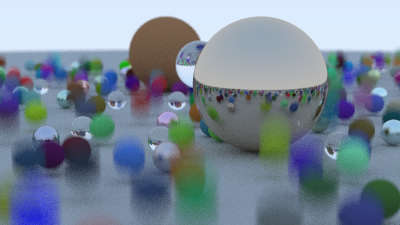
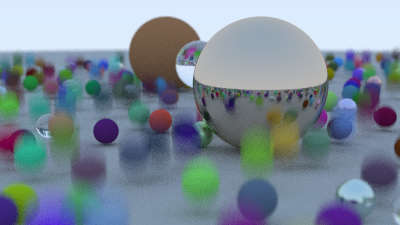
Optimize by choosing longest axis

diff --git a/RayTracer/src/utils.rs b/RayTracer/src/utils.rs
@@ -3,7 +3,8 @@ use rand::{
     distributions::{Open01, Uniform},
     thread_rng, Rng,
 };
-use std::{iter::Sum, ops::{Add, AddAssign}};
+use std::{iter::Sum, mem::swap, ops::{Add, AddAssign}};
+use std::cmp::Ordering;
 
 pub fn is_ci() -> bool {
     option_env!("CI").unwrap_or_default() == "true"
@@ -18,6 +19,52 @@ pub fn linear_to_gamma(x: f64) -> f64 {
         x.sqrt()
     } else {
         x
+    }
+}
+
+// Sorting by quicksort
+pub fn inplace_sort<T>(v: &mut Vec<T>, begin: usize, end: usize, cmp_fn: &impl Fn(&T, &T) -> std::cmp::Ordering) {
+    if end - begin < 2 {
+        return; 
+    }
+
+    let pivot_index = partition(v, begin, end, cmp_fn);
+    inplace_sort(v, begin, pivot_index, cmp_fn); 
+    inplace_sort(v, pivot_index + 1, end, cmp_fn); 
+}
+
+fn partition<T>(v: &mut Vec<T>, begin: usize, end: usize, cmp_fn: &impl Fn(&T, &T) -> std::cmp::Ordering) -> usize {
+    let p = thread_rng().gen_range(begin..end);
+    v.swap(p, end - 1);  
+    let mut i = begin;
+    for j in begin..end - 1 {
+        if cmp_fn(&v[j], &v[end-1]) != std::cmp::Ordering::Greater {
+            v.swap(i, j);
+            i += 1;
+        }
+    }
+    v.swap(i, end - 1); 
+    i 
+}
+
+
+#[cfg(test)]
+mod tests_sort {
+    use crate::utils::inplace_sort;
+
+    #[test]
+    fn test_inplace_sort() {
+        let mut v = vec![3, 1, 2, 4, 5];
+        inplace_sort(&mut v, 0, 5, &|a, b| a.cmp(b));
+        assert_eq!(v, vec![1, 2, 3, 4, 5]);
+        let mut v = vec![5, 4, 3, 2, 1];
+        inplace_sort(&mut v, 0, 2, &|a, b| a.cmp(b));
+        assert_eq!(v, vec![4, 5, 3, 2, 1]);
+
+        let mut v = vec![3, 6, 4, 5, 2, 1, 8, 7];
+        inplace_sort(&mut v, 0, 4, &|a, b| a.cmp(b));
+        inplace_sort(&mut v, 4, 8, &|a, b| a.cmp(b));
+        assert_eq!(v, vec![3, 4, 5, 6, 1, 2, 7, 8])
     }
 }
 
@@ -248,7 +295,7 @@ impl Sum for Vec3 {
 }
 
 #[cfg(test)]
-mod tests {
+mod tests_vec3 {
     use super::*;
 
     #[test]

diff --git a/RayTracer/src/hittable.rs b/RayTracer/src/hittable.rs
@@ -97,7 +97,11 @@ impl BVHNode {
     }
 
     pub fn new(objects: Vec<Arc<dyn Hittable + Send + Sync>>) -> Self {
-        let axis = rand::thread_rng().gen_range(0..3);
+        let mut bbox = AABB::default();
+        for i in &objects {
+            bbox = bbox.combine(&i.bounding_box());
+        }
+        let axis = bbox.longest_axis();
         let compare_fn = match axis {
             0 => Self::box_x_compare,
             1 => Self::box_y_compare,
@@ -109,12 +113,12 @@ impl BVHNode {
             Self {
                 left: objects[0].clone(),
                 right: objects[0].clone(),
-                bbox: objects[0].bounding_box(),
+                bbox,
             }
         } else if objects.len() == 2 {
             // println!("2: {:?}", objects[0].bounding_box().combine(&objects[1].bounding_box()));
             Self {
-                bbox: objects[0].bounding_box().combine(&objects[1].bounding_box()),
+                bbox,
                 left: objects[0].clone(),
                 right: objects[1].clone(),
             }
@@ -127,7 +131,7 @@ impl BVHNode {
             let right = Arc::new(BVHNode::new(right_vec.to_vec()));
             // println!("3: {:?}", left.bbox.combine(&right.bbox));
             Self {
-                bbox: left.bbox.combine(&right.bbox),
+                bbox,
                 left, right,
             }
         }

diff --git a/RayTracer/src/aabb.rs b/RayTracer/src/aabb.rs
@@ -44,6 +44,21 @@ impl AABB {
         // println!("t_x: {:?}, t_y: {:?}, t_z: {:?}", t_x, t_y, t_z);
         !t_x.intersect(&t_y).intersect(&t_z).is_empty()
     }
+
+    pub fn longest_axis(&self) -> usize {
+        let (x_len, y_len, z_len) = (
+            self.x.max - self.x.min,
+            self.y.max - self.y.min,
+            self.z.max - self.z.min,
+        );
+        if x_len > y_len && x_len > z_len {
+            0
+        } else if y_len > z_len {
+            1
+        } else {
+            2
+        }
+    }
 }
 
 impl Default for AABB {
